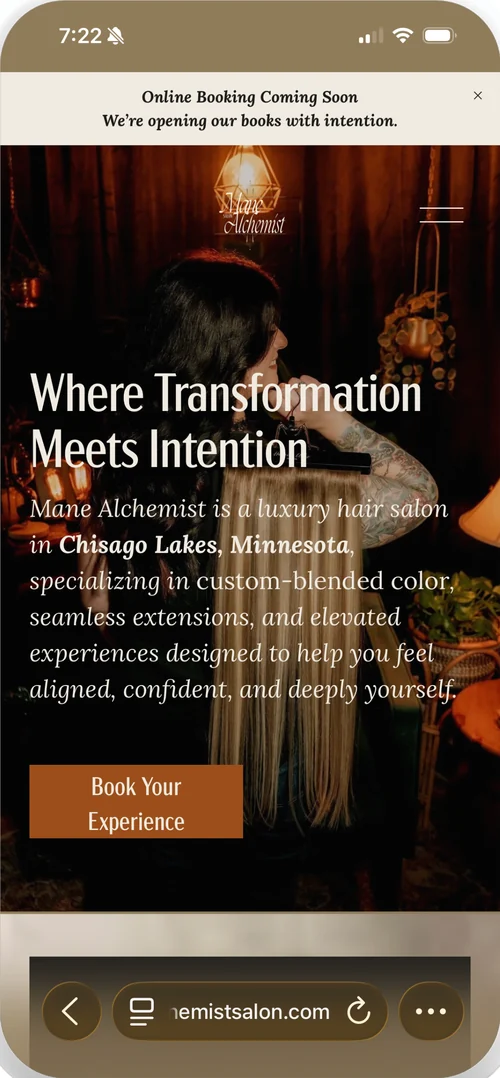
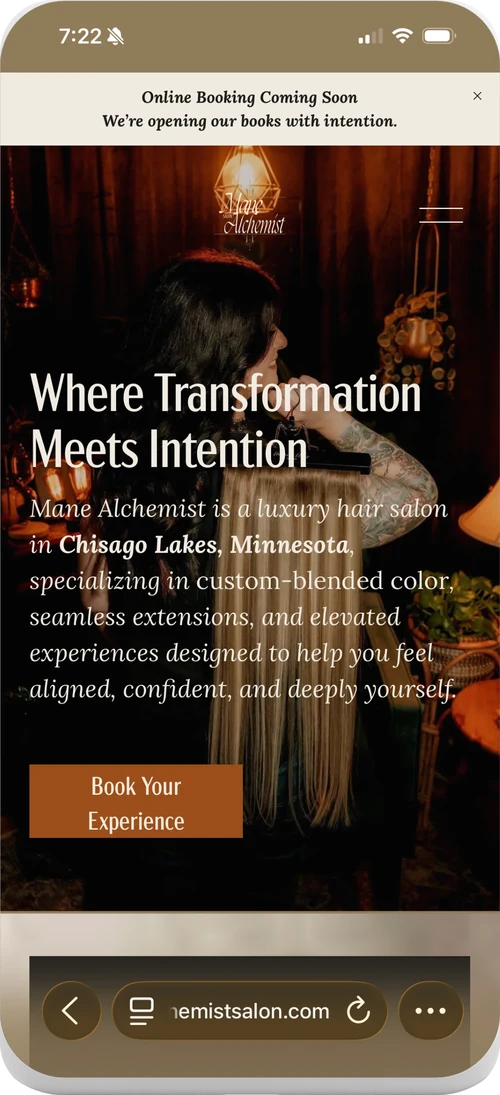
The frame follows the phone already in the screenshot
The screenshots have Apple's corner rounding baked into them, at 10.0% of
their own width, and the CSS was clipping at 8.5%. So each corner kept a wedge
of the board's white page and showed it as four notches inside the drawn
frame. The corners are cut out of the file now, on the phone's own curve, so
what shows through them is the chassis rather than the page, which is what a
bezel wrapping a screen corner actually looks like. Masked slightly deeper
than measured so the anti-aliased fringe of the original curve goes too.

The frame is solved against that curve rather than an abstract target: bezel
2.5%, corner 12.5%, screen corner the difference, so the two are concentric.
12.5% is rounder than a real iPhone body and it is still the right number,
because concentric with the screenshot beats correct in the abstract.

The crop bounds were also a pixel high. The phone is 4432,3561 to 5568,6049 on
every board, found by asking for the first and last row whose central 60% is
solid: SRS has the board's own Minneapolis caption running above its phone,
and a naive top edge test locks onto that text. A slice of it had been riding
along in the shipped image.

diff --git a/the-build/index.html b/the-build/index.html
@@ -32,7 +32,7 @@
 <link rel="preconnect" href="https://fonts.googleapis.com">
 <link rel="preconnect" href="https://fonts.gstatic.com" crossorigin>
 <link rel="stylesheet" href="https://fonts.googleapis.com/css2?family=IBM+Plex+Mono:wght@400&family=Instrument+Sans:wght@400;500&family=Instrument+Serif:ital@0;1&display=swap">
-<link rel="stylesheet" href="../assets/css/site.css?v=c9290803">
+<link rel="stylesheet" href="../assets/css/site.css?v=774cbb22">
 <script>document.documentElement.className += " js-motion";</script>
 
 <!-- Machine readable, so an assistant quoting a price quotes the right one.
@@ -301,7 +301,7 @@
           <figure class="case-screen">
             <img src="../assets/img/work/mane-alchemist-screen-500.webp"
                  srcset="../assets/img/work/mane-alchemist-screen-500.webp 500w, ../assets/img/work/mane-alchemist-screen-800.webp 800w"
-                 sizes="(min-width: 56rem) 8vw, 20vw" width="500" height="1078"
+                 sizes="(min-width: 56rem) 8vw, 20vw" width="500" height="1095"
                  loading="lazy" decoding="async"
                  alt="The Mane Alchemist home page on a phone, headed Where Transformation Meets Intention over a warm, low lit salon photograph.">
           </figure>
@@ -327,7 +327,7 @@
           <figure class="case-screen">
             <img src="../assets/img/work/srs-performance-screen-500.webp"
                  srcset="../assets/img/work/srs-performance-screen-500.webp 500w, ../assets/img/work/srs-performance-screen-800.webp 800w"
-                 sizes="(min-width: 56rem) 8vw, 20vw" width="500" height="1078"
+                 sizes="(min-width: 56rem) 8vw, 20vw" width="500" height="1095"
                  loading="lazy" decoding="async"
                  alt="The SRS Performance home page on a phone, headed You&rsquo;re Still An Athlete, Train to a Standard, over a dark gym interior.">
           </figure>
@@ -353,7 +353,7 @@
           <figure class="case-screen">
             <img src="../assets/img/work/solyrey-screen-500.webp"
                  srcset="../assets/img/work/solyrey-screen-500.webp 500w, ../assets/img/work/solyrey-screen-800.webp 800w"
-                 sizes="(min-width: 56rem) 8vw, 20vw" width="500" height="1078"
+                 sizes="(min-width: 56rem) 8vw, 20vw" width="500" height="1095"
                  loading="lazy" decoding="async"
                  alt="The SolyRey home page on a phone, headed Wander Freely, Discover Deeply, over a yellow camper van against red rock.">
           </figure>
@@ -706,6 +706,6 @@
   </div>
 </footer>
 
-<script src="../assets/js/site.js?v=c9290803" defer></script>
+<script src="../assets/js/site.js?v=774cbb22" defer></script>
 </body>
 </html>

diff --git a/assets/css/site.css b/assets/css/site.css
@@ -2250,8 +2250,12 @@ main > * { position: relative; z-index: 1; }
   position: relative;
   margin: 0;
   --dev-w: clamp(6rem, 11.5vw, 8.5rem);
-  --bezel: calc(var(--dev-w) * .036);
-  --corner: calc(var(--dev-w) * .115);
+  --bezel: calc(var(--dev-w) * .025);
+  /* 12.5%, not the 11.5% of a real iPhone body, and that is the right trade:
+     the corners have to be concentric with the curve already cut into the
+     screenshot, and that curve is the mockup's, not Apple's. Solved from
+     R = r + b with r fixed at the image's baked 10.5%. */
+  --corner: calc(var(--dev-w) * .125);
   width: var(--dev-w);
   padding: var(--bezel);
   background: #15191C;
@@ -2262,6 +2266,9 @@ main > * { position: relative; z-index: 1; }
     0 0 0 1px rgba(7, 26, 31, .16),
     0 1.15rem 2.25rem -1rem rgba(7, 26, 31, .42);
 }
+/* The corners are cut out of the file itself, on the phone's own curve, so
+   the frame shows through them rather than the board's white page. The radius
+   here lands on the same curve and keeps the edge crisp. */
 .case-screen img {
   width: 100%; height: auto; display: block;
   border-radius: calc(var(--corner) - var(--bezel));

diff --git a/about/index.html b/about/index.html
@@ -25,7 +25,7 @@
 <link rel="preconnect" href="https://fonts.googleapis.com">
 <link rel="preconnect" href="https://fonts.gstatic.com" crossorigin>
 <link rel="stylesheet" href="https://fonts.googleapis.com/css2?family=IBM+Plex+Mono:wght@400&family=Instrument+Sans:wght@400;500&family=Instrument+Serif:ital@0;1&display=swap">
-<link rel="stylesheet" href="../assets/css/site.css?v=c9290803">
+<link rel="stylesheet" href="../assets/css/site.css?v=774cbb22">
 <script>document.documentElement.className += " js-motion";</script>
 
 <script type="application/ld+json">
@@ -404,6 +404,6 @@
   </div>
 </footer>
 
-<script src="../assets/js/site.js?v=c9290803" defer></script>
+<script src="../assets/js/site.js?v=774cbb22" defer></script>
 </body>
 </html>

diff --git a/index.html b/index.html
@@ -48,7 +48,7 @@
 <link rel="preconnect" href="https://fonts.googleapis.com">
 <link rel="preconnect" href="https://fonts.gstatic.com" crossorigin>
 <link rel="stylesheet" href="https://fonts.googleapis.com/css2?family=IBM+Plex+Mono:wght@400&family=Instrument+Sans:wght@400;500&family=Instrument+Serif:ital@0;1&display=swap">
-<link rel="stylesheet" href="assets/css/site.css?v=c9290803">
+<link rel="stylesheet" href="assets/css/site.css?v=774cbb22">
 <script>document.documentElement.className += " js-motion";</script>
 
 <script type="application/ld+json">
@@ -887,6 +887,6 @@
   </div>
 </footer>
 
-<script src="assets/js/site.js?v=c9290803" defer></script>
+<script src="assets/js/site.js?v=774cbb22" defer></script>
 </body>
 </html>

diff --git a/HANDOFF.md b/HANDOFF.md
@@ -298,9 +298,21 @@ sit directly on the page.
 
   | | |
   |---|---|
-  | bezel | 3.6% of width, even on all four sides |
-  | corner | 11.5% of width — and the screen's corner is that **minus the bezel**, so the two curves are concentric. Non-concentric corners are the single thing that makes a drawn phone look drawn. |
+  | bezel | 2.5% of width, even on all four sides |
+  | corner | 12.5% of width — and the screen's corner is that **minus the bezel**, so the two curves are concentric. Non-concentric corners are the single thing that makes a drawn phone look drawn. |
   | island | 30% wide, 8.5% tall, a bezel's depth below the top, over the screen the way it really sits |
+
+  **12.5%, not the 11.5% of a real iPhone body, and that is deliberate.** The screenshot has
+  Apple's corner rounding already baked into it, measured at **10.0%** of its own width. The
+  frame has to be concentric with *that* curve, not with an abstract target, so the numbers are
+  solved from `R = r + b` with `r` fixed. Change the bezel and the corner has to move with it.
+
+  **The corners are cut out of the image file, not just clipped in CSS.** The crop used to be a
+  plain rectangle, so each corner carried a wedge of the board's white page, and the CSS clip
+  sat at 8.5% where the baked curve is 10.0%: four white notches inside the frame. The wedges
+  are transparent in the file now, cut on the phone's own curve and masked slightly deeper
+  (10.5%) so the anti-aliased fringe goes with them. The chassis shows through instead of the
+  page, which is what a bezel wrapping a screen corner actually looks like.
 
   **Every part of the frame derives from `--dev-w`, so the mobile override must set `--dev-w`
   and never `width`.** It set `width` at first, which left a 76px phone drawing a 96px phone's
@@ -330,10 +342,18 @@ to the panel's own bounding box first; and **Mane's second lockup panel is dark 
 that reaches it makes the snap span both panels and turns the white page gap between them into
 an opaque bar across the finished mark.
 
-Crop boxes, in the board's own 900x900 preview space, scaled by `6250/900`: Mane
-`(40,72,295,316)`, SRS `(38,70,290,315)`, SolyRey `(38,70,286,315)`, each snapped to its panel
-then trimmed to ink; screen `(639,536) -> (802,818)`. Cydnie's own board is deliberately
-absent: it is the retired teal-and-cream brand.
+Crop boxes for the marks, in the board's own 900x900 preview space, scaled by `6250/900`:
+Mane `(40,72,295,316)`, SRS `(38,70,290,315)`, SolyRey `(38,70,286,315)`, each snapped to its
+panel then trimmed to ink.
+
+**The phone is `(4432, 3561) -> (5568, 6049)` in source pixels, identical on all three boards**
+— 1136x2488, aspect 0.4566. Found by asking for the first and last row whose **central 60%**
+is solid. The central 60% is the part that matters: SRS Performance has the board's own
+"Minneapolis, MN 55403" caption running above its phone, and a naive top-edge test locks onto
+that text instead. An earlier crop started one pixel high and carried a slice of it into the
+shipped image.
+
+Cydnie's own board is deliberately absent: it is the retired teal-and-cream brand.
 
 Fixed in the same pass, site wide: **the depth gauge's numeric read was printing over the text
 column on any phone under 480px.** The gutter bottoms out at 20px there and the read is 16px
